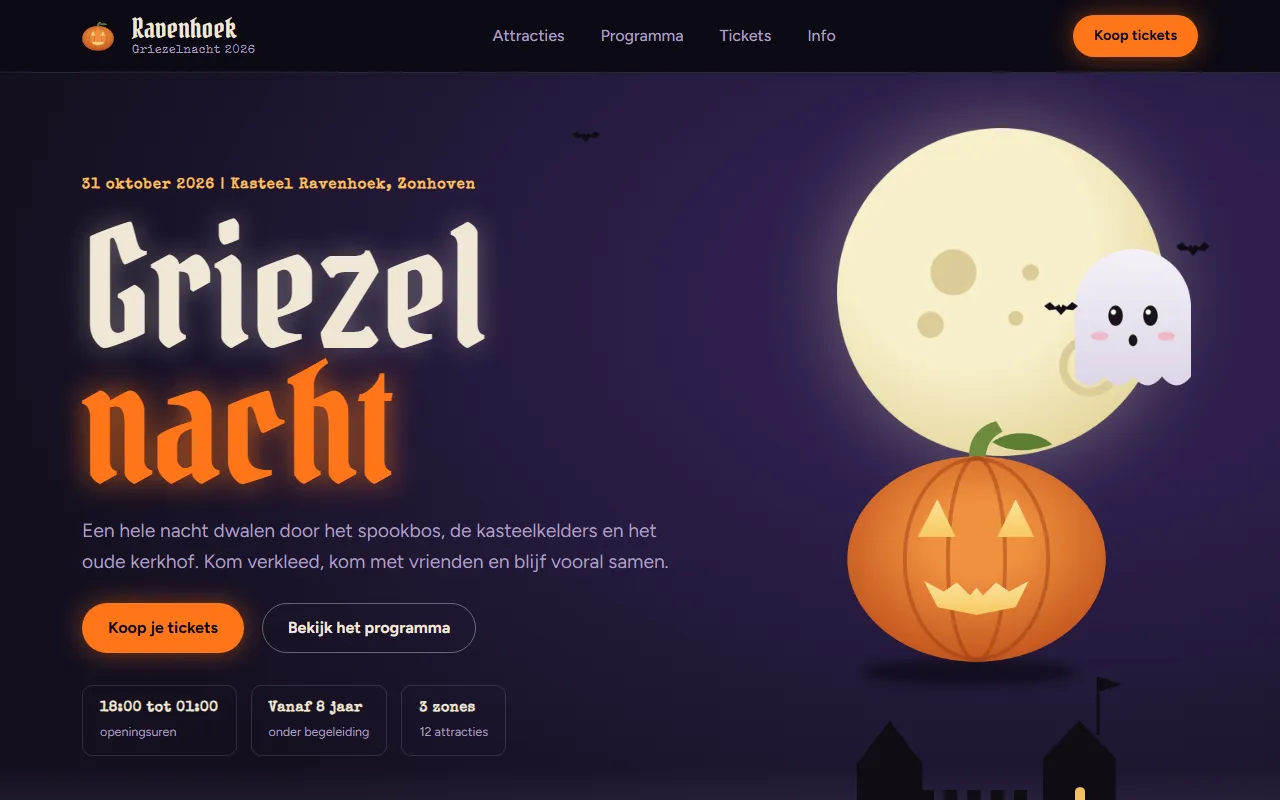
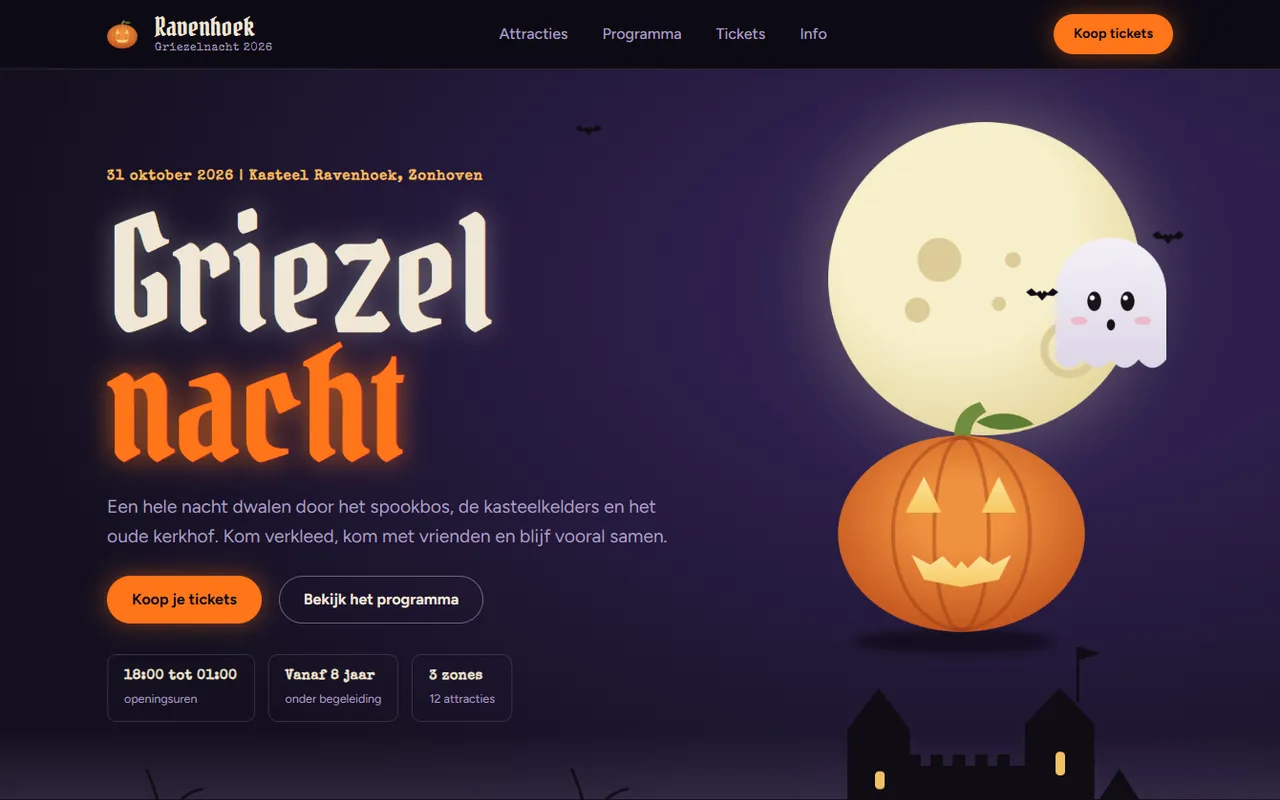
style: 3NF uit het examenproject, nieuwe screenshot met het kasteel en de mist volledig in beeld, bump to v123

diff --git a/index.html b/index.html
@@ -35,19 +35,19 @@
     <link rel="stylesheet"
         href="https://fonts.googleapis.com/css2?family=IBM+Plex+Mono:wght@400;500&family=Schibsted+Grotesk:wght@400;500;600;700&display=swap">
 
-    <link rel="stylesheet" href="style.css?v=122">
-    <link rel="icon" href="favicon.ico?v=122" sizes="16x16 32x32 48x48">
+    <link rel="stylesheet" href="style.css?v=123">
+    <link rel="icon" href="favicon.ico?v=123" sizes="16x16 32x32 48x48">
     <link rel="apple-touch-icon" href="apple-touch-icon.png">
 
     <!-- In de head, zodat het thema al staat voor de pagina getekend wordt.
          De rest van script.js wacht zelf tot de HTML geladen is. -->
-    <script src="script.js?v=122"></script>
+    <script src="script.js?v=123"></script>
 
     <!-- jsPDF en mijn eigen script dat er de cv-pdf mee tekent; defer laadt ze zonder de pagina op te houden -->
     <script src="https://cdnjs.cloudflare.com/ajax/libs/jspdf/2.5.1/jspdf.umd.min.js"
         integrity="sha384-JcnsjUPPylna1s1fvi1u12X5qjY5OL56iySh75FdtrwhO/SWXgMjoVqcKyIIWOLk" crossorigin="anonymous"
         defer></script>
-    <script src="cv-pdf.js?v=122" defer></script>
+    <script src="cv-pdf.js?v=123" defer></script>
 </head>
 
 <body>

diff --git a/script.js b/script.js
@@ -356,9 +356,8 @@ document.addEventListener("DOMContentLoaded", function () {
             beschrijving: "Mijn examen voor de module Fundamentals & tooling: een fictieve Griezelnacht in "
                 + "Kasteel Ravenhoek, nagebouwd vanaf een ontwerp met Bootstrap, Flexbox, CSS-variabelen en "
                 + "Google Fonts. De maan, het spookje, de pompoen en de vleermuizen zijn losse afbeeldingen "
-                + "die elk hun eigen plekje kregen. Daarnaast normaliseerde ik een reservatietabel tot 3NF "
-                + "in een spreadsheet.",
-            tags: ["HTML", "CSS", "Bootstrap", "Flexbox", "3NF"],
+                + "die elk hun eigen plekje kregen. Onderaan hangt een subtiel mistje boven de grond.",
+            tags: ["HTML", "CSS", "Bootstrap", "Flexbox"],
             afbeelding: "images/examen-ravenhoek.webp",
             // Alleen bij een examen: de score en de feedback van mijn docent
             punten: "96 / 100",

diff --git a/README.md b/README.md
@@ -40,7 +40,7 @@ The light theme uses warm off-white "paper" tones, near-black text and a deeper 
 
 All colors, radii and spacing live as CSS variables at the top of `style.css`. Type is set in Schibsted Grotesk, with IBM Plex Mono for small technical details such as section numbers, labels and the scrolling text bar.
 
-The CSS and JavaScript URLs in `index.html` (`style.css`, `favicon.ico`, `script.js` and `cv-pdf.js`) share one version query string (`?v=122`). Raise all of them together after a change so browsers load the new files.
+The CSS and JavaScript URLs in `index.html` (`style.css`, `favicon.ico`, `script.js` and `cv-pdf.js`) share one version query string (`?v=123`). Raise all of them together after a change so browsers load the new files.
 
 ## How to View
 
@@ -78,7 +78,7 @@ HTML, CSS, database normalization, MySQL, Agile & Scrum, and JavaScript (current
 - Tailwind product page: my fourth course project, an AirPods product card styled with Tailwind CSS.
 - Animated browser mockup featuring a CSS cursor and scrolling animation.
 - Vloermeesters tile price calculator: a course project for a fictional tiling company, with JavaScript price calculations and downloadable PDF quotes made with jsPDF.
-- Griezelnacht exam: my exam for the Fundamentals & tooling module, a fictional Halloween night at Kasteel Ravenhoek built with Bootstrap, Flexbox, CSS variables and Google Fonts, plus a reservation table normalized to 3NF. It has no repository or live demo; its modal shows the score (96/100) and my teacher's feedback.
+- Griezelnacht exam: my exam for the Fundamentals & tooling module, a fictional Halloween night at Kasteel Ravenhoek built with Bootstrap, Flexbox, CSS variables and Google Fonts. It has no repository or live demo; its modal shows the score (96/100) and my teacher's feedback.
 
 Each project except the exam has its own GitHub repository. The detail modal links to the live demo on GitHub Pages (`https://wesley-dev-tech.github.io/<repo>/`) and to the code on GitHub.
 
